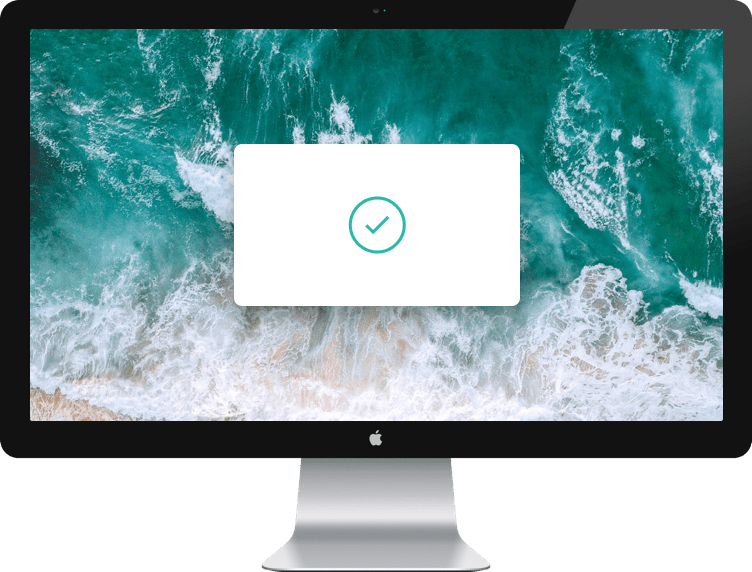
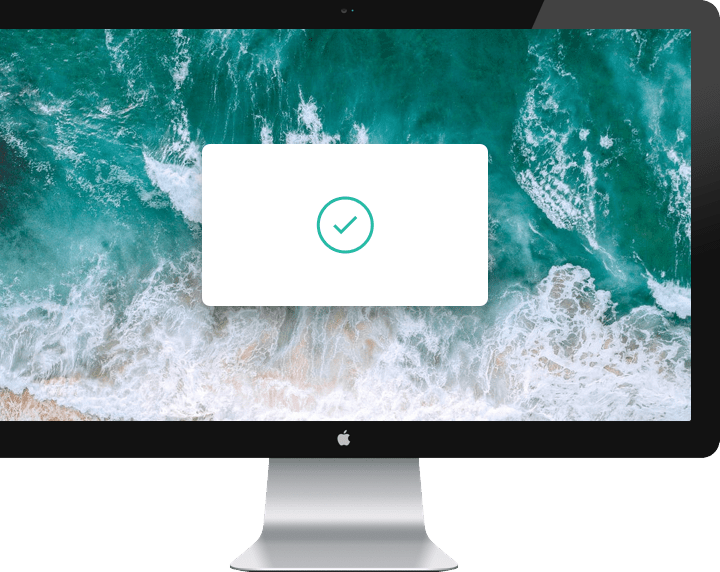
Clipboard landing

diff --git a/index.html b/index.html
@@ -1,42 +1,178 @@
 <!DOCTYPE html>
 <html lang="en">
+<head>
+    <meta charset="UTF-8">
+    <meta name="viewport" content="width=device-width, initial-scale=1.0">
+    <link rel="icon" type="image/png" sizes="32x32" href="./images/favicon-32x32.png">
+    <title>Frontend Mentor | Clipboard landing page</title>
+    <script src="https://cdn.tailwindcss.com"></script>
+    <link rel="stylesheet" href="style.css">
+</head>
+<body class="text-gray-600">
 
-    <head>
-        <meta charset="UTF-8">
-        <meta name="viewport" content="width=device-width, initial-scale=1.0">
-        <link rel="icon" type="image/png" sizes="32x32" href="./images/favicon-32x32.png">
-        <title>Frontend Mentor | Clipboard landing page</title>
-        <script src="https://cdn.tailwindcss.com"></script>
-        <link rel="stylesheet" href="style.css">
-    </head>
-    <body class="text-gray-600">
+    <div class="bg-img-desktop bg-no-repeat bg-cover ">
+        <div class="flex justify-center pt-36">
+            <svg width="125" height="125" xmlns="http://www.w3.org/2000/svg">
+                <g stroke="#26BBA4" stroke-width="10" fill="none" fill-rule="evenodd">
+                    <circle cx="62.5" cy="62.5" r="57.5" />
+                    <path d="M85.481 85.481c-12.692 12.692-33.27 12.692-45.962 0s-12.692-33.27 0-45.962 33.27-12.692 45.962 0" stroke-linecap="round" />
+                </g>
+            </svg>
+        </div>
+    </div>
 
-        <div class="bg-img-desktop bg-no-repeat bg-cover ">
-            <div class="flex justify-center pt-36">
-                <svg width="125" height="125" xmlns="http://www.w3.org/2000/svg">
-                    <g stroke="#26BBA4" stroke-width="10" fill="none" fill-rule="evenodd">
-                        <circle cx="62.5" cy="62.5" r="57.5" />
-                        <path
-                            d="M85.481 85.481c-12.692 12.692-33.27 12.692-45.962 0s-12.692-33.27 0-45.962 33.27-12.692 45.962 0"
-                            stroke-linecap="round" />
-                    </g>
-                </svg>
+    <div>
+        <div class="grid place-items-center pt-2">
+            <h1 class="text-5xl font-medium ">A history of everything you copy</h1>
+            <p class="w-2/4 text-center pt-5"> Clipboard allows you to track and organize everything you copy. Instantly access your
+                clipboard on all your devices.</p>
+        </div>
+
+        <div class=" grid place-items-center grid-cols-2 py-14">
+            <button class="place-self-end rounded-full text-white py-2 px-8 me-1.5 font-bai border-b-4 border-cyan-700" style="background-color: hsl(171, 66%, 44%);" type="button">Download for iOS</button>
+            <button class="place-self-start rounded-full text-white py-2 px-8 ms-1.5 font-bai border-b-4 border-blue-600" style="background-color: hsl(233, 100%, 69%);" type="button">Download for Mac</button>
+        </div>
+
+        <div class="grid place-items-center pt-32 mb-16">
+            <h1 class="text-5xl font-medium">Keep track of your snippets</h1>
+            <p class="w-2/4 text-center pt-5"> Clipboard instantly stores any item you copy in the cloud, meaning you can access your snippets immediately on all your devices. Our Mac and iOS apps will help you organize everything.</p>
+        </div>
+
+    </div>
+
+    <div class="grid grid-cols-2 mb-16">
+        <div>
+            <img src="images/image-computer.png" height="600" width="800"/>
+        </div>
+
+        <div class="ms-14">
+            <div class="mt-16 ms-16 pb-12 ">
+                <h1 class="text-2xl font-medium">Quick Search</h1>
+                <p class="w-3/5 font_size pt-4">Easily search your snippets by content, category, web address, application, and more.</p>
             </div>
 
-            <div class="grid place-items-center pt-16">
-                <h1 class=" text-5xl font-medium ">A history of everything you copy</h1>
-                <p class=" w-2/4 text-center pt-5"> Clipboard allows you to track and organize everything you copy. Instantly access your
-                    clipboard on all your devices.</p>
+            <div class=" ms-16 pb-12">
+                <h1 class="text-2xl font-medium">iCloud Sync</h1>
+                <p class="w-3/5 font_size pt-4">Instantly saves and syncs snippets across all your devices.</p>
             </div>
 
-            <div class="grid place-items-center grid-cols-2 py-14">
-                <button class="place-self-end rounded-full text-white py-2 px-8 me-1.5 font-bai border-b-4 border-cyan-700" style="background-color: hsl(171, 66%, 44%);" type="button">Download for iOS</button>
-                <button class="place-self-start rounded-full text-white py-2 px-8 ms-1.5 font-bai border-b-4 border-blue-600" style="background-color: hsl(233, 100%, 69%);" type="button">Download for Mac</button>
+            <div class=" ms-16 pb-12">
+                <h1 class="text-2xl font-medium">Complete History</h1>
+                <p class="w-3/5 font_size pt-4">Retrieve any snippets from the first moment you started using the app.</p>
             </div>
         </div>
 
+    </div>
+
+    <div>
+        <div class="grid place-items-center pt-32 pb-16 mb-16">
+            <h1 class="text-5xl font-medium">Access Clipboard anywhere</h1>
+            <p class="w-2/4 text-center pt-5">Whether you're on the go, or at your computer, you can access all your Clipboard snippets in a few simple clicks.</p>
+        </div>
+        <div class="grid place-items-center">
+            <img src="images/image-devices.png" height="575" width="905"/>
+        </div>
+        <div class="grid place-items-center pt-20 pb-16 mb-5">
+            <h1 class="text-5xl font-medium">Supercharge your workflow</h1>
+            <p class="w-2/4 text-center pt-5">We've got the tools to boost your productivity.</p>
+        </div>
+    </div>
+
+    <div class="grid grid-cols-3 place-items-center py-10 px-40 mb-40">
+
+        <div class="grid place-items-center ">
+            <svg width="44" height="40" xmlns="http://www.w3.org/2000/svg"><g fill="#9EABB2" fill-rule="nonzero"><path d="M11.07 0C8.353 0 6.14 2.192 6.14 4.876l-.179 25.278 2.69.02.179-25.289c0-1.21 1.005-2.196 2.24-2.196h27.027V0H11.071z"/><path d="M38.097 0a5.115 5.115 0 00-5.11 5.11v28.37c0 2.052-1.668 3.72-3.72 3.72a3.725 3.725 0 01-3.72-3.72V30.21c0-.743-.601-1.345-1.344-1.345H1.345C.602 28.864 0 29.466 0 30.21v3.272a6.417 6.417 0 006.41 6.409V37.2a3.724 3.724 0 01-3.72-3.72v-1.927h20.168v1.928a6.417 6.417 0 006.41 6.409 6.417 6.417 0 006.409-6.41V12.46h6.185c.743 0 1.345-.602 1.345-1.345V5.11A5.115 5.115 0 0038.097 0zm2.42 9.77h-4.84V5.11a2.423 2.423 0 012.42-2.42 2.423 2.423 0 012.42 2.42v4.66z"/><path d="M6.14 37.201h22.813v2.689H6.14zM19.99 7.485h-6.947a1.345 1.345 0 100 2.69h6.947a1.345 1.345 0 100-2.69zM28.057 12.863H13.043a1.345 1.345 0 100 2.69h15.014a1.345 1.345 0 100-2.69zM28.057 18.242H13.043a1.345 1.345 0 100 2.69h15.014a1.344 1.344 0 100-2.69zM28.057 23.62H13.043a1.345 1.345 0 100 2.69h15.014a1.345 1.345 0 100-2.69z"/></g></svg>
+            <div class="text-center pt-11">
+                <h1 class="text-2xl font-medium">Create blacklists</h1>
+                <p class=" font_size pt-4">Ensure sensitive information never makes its way to your clipboard by excluding certain sources.</p>
+            </div>
+        </div>
+
+        <div class="grid place-items-center ">
+            <svg width="36" height="40" xmlns="http://www.w3.org/2000/svg"><path d="M17.872 14.736a235.39 235.39 0 012.192 5.744c.746 2.027 1.536 4.24 2.368 6.64h-5.344a44.4 44.4 0 00-.784-2.368c-.288-.81-.57-1.632-.848-2.432h-8.64c-.278.8-.56 1.621-.848 2.432a44.4 44.4 0 00-.784 2.368H0a371.54 371.54 0 012.368-6.644 233.104 233.104 0 012.192-5.748 206.71 206.71 0 012.112-5.112c.693-1.61 1.413-3.136 2.16-4.736H13.6c.725 1.6 1.44 3.125 2.144 4.736.704 1.61 1.413 3.328 2.128 5.12zM7.968 18.32h6.303c-.34-.96-.671-1.878-.991-2.752a94.407 94.407 0 00-.912-2.4c-.288-.725-.539-1.365-.752-1.92-.214-.555-.384-.992-.512-1.313-.107.32-.267.758-.48 1.313a1241.872 1241.872 0 00-1.648 4.32c-.331.874-.667 1.792-1.008 2.752zM35.04 3.2h-3.2v25.6h3.2V32h-9.6v-3.2h3.2V3.2h-3.2V0h9.6v3.2z" fill="#9EABB2" fill-rule="nonzero"/></svg>
+            <div class="text-center pt-11">
+                <h1 class="text-2xl font-medium">Plain text snippets</h1>
+                <p class=" font_size pt-4">Remove unwanted formatting from copied text for a consistent look.</p>
+            </div>
+        </div>
+
+        <div class="grid place-items-center ">
+            <svg width="50" height="40" xmlns="http://www.w3.org/2000/svg"><path d="M49.059 14.072c-2.585-4.227-6.06-7.623-10.424-10.188C34.27 1.318 29.66.035 24.806.035c-4.854 0-9.464 1.283-13.829 3.849C6.612 6.449 3.137 9.845.554 14.072c-.37.646-.554 1.283-.554 1.91 0 .628.185 1.265.554 1.91 2.583 4.227 6.058 7.624 10.423 10.189 4.365 2.565 8.975 3.847 13.83 3.847 4.853 0 9.463-1.277 13.828-3.833 4.365-2.557 7.84-5.957 10.424-10.202.369-.646.553-1.283.553-1.91 0-.628-.184-1.265-.553-1.911zM18.867 6.5c1.652-1.652 3.631-2.478 5.939-2.478.369 0 .683.13.941.388.258.258.388.572.388.941 0 .37-.13.683-.387.941a1.28 1.28 0 01-.942.388c-1.587 0-2.944.563-4.07 1.689-1.126 1.126-1.688 2.482-1.688 4.07 0 .369-.13.683-.388.941a1.28 1.28 0 01-.941.388c-.37 0-.683-.13-.942-.388a1.282 1.282 0 01-.388-.942c0-2.306.827-4.286 2.478-5.938zm17.969 18.522c-3.701 2.242-7.71 3.364-12.03 3.364-4.319 0-8.329-1.121-12.03-3.364-3.7-2.243-6.777-5.256-9.232-9.04 2.805-4.356 6.321-7.614 10.548-9.773a12.099 12.099 0 00-1.689 6.23c0 3.414 1.214 6.334 3.64 8.762 2.428 2.427 5.349 3.64 8.763 3.64 3.415 0 6.335-1.213 8.762-3.64 2.428-2.427 3.641-5.348 3.641-8.763 0-2.233-.563-4.31-1.689-6.229 4.227 2.16 7.743 5.418 10.548 9.773-2.454 3.784-5.532 6.797-9.232 9.04z" fill="#9EABB2" fill-rule="nonzero"/></svg>
+            <div class="text-center pt-11">
+                <h1 class="text-2xl font-medium">Sneak preview</h1>
+                <p class=" font_size pt-4">Quick preview of all snippets on your Clipboard. for easy access.</p>
+            </div>
+        </div>
+    </div>
 
 
-    </body>
+    <div class="grid grid-cols-5 place-items-center py-10 px-32 mb-32">
+
+        <div class="grid place-items-center ">
+            <img src="images/logo-google.png" height="49" width="165"/>
+        </div>
+
+        <div class="grid place-items-center ">
+            <img src="images/logo-ibm.png" height="51" width="139"/>
+        </div>
+
+        <div class="grid place-items-center ">
+            <img src="images/logo-microsoft.png" height="35" width="161"/>
+        </div>
+
+        <div class="grid place-items-center ">
+            <img src="images/logo-hp.png" height="56" width="135"/>
+        </div>
+
+        <div class="grid place-items-center ">
+            <img src="images/logo-vector-graphics.png" height="30" width="125"/>
+        </div>
+    </div>
+
+
+    <div class="mb-32">
+        <div class="grid place-items-center pt-2">
+            <h1 class="text-4xl font-medium ">Clipboard for iOS and Mac OS</h1>
+            <p class="w-2/4 text-center pt-5">Available for free on the App Store. Download for Mac or iOS, sync with iCloud and you're ready to start adding to your clipboard.</p>
+        </div>
+
+        <div class=" grid place-items-center grid-cols-2 py-14">
+            <button class="place-self-end rounded-full text-white py-2 px-8 me-1.5 font-bai border-b-4 border-cyan-700" style="background-color: hsl(171, 66%, 44%);" type="button">Download for iOS</button>
+            <button class="place-self-start rounded-full text-white py-2 px-8 ms-1.5 font-bai border-b-4 border-blue-600" style="background-color: hsl(233, 100%, 69%);" type="button">Download for Mac</button>
+        </div>
+
+    </div>
+
+
+    <div class="bg-gray-100 grid grid-cols-4 place-items-center">
+        <div class="m-10  col-span-1">
+            <img src="images/logo.svg" style="height: 65px; width: 65px">
+        </div>
+
+        <div class="grid grid-cols-3 col-span-2 me-56">
+            <div >
+                <h1 class="me-20">FAQs<br><br>Contact Us</h1>
+            </div>
+            <div>
+                <h1 class="me-20">Privacy Policy<br><br>Press Kit</h1>
+            </div>
+            <div>
+                <h1 class="me-20">Install Guide</h1>
+
+            </div>
+
+        </div>
+
+        <div class="grid grid-cols-3 col-span-1">
+            <svg class="me-5" width="24" height="24" xmlns="http://www.w3.org/2000/svg"><path d="M22.675 0H1.325C.593 0 0 .593 0 1.325v21.351C0 23.407.593 24 1.325 24H12.82v-9.294H9.692v-3.622h3.128V8.413c0-3.1 1.893-4.788 4.659-4.788 1.325 0 2.463.099 2.795.143v3.24l-1.918.001c-1.504 0-1.795.715-1.795 1.763v2.313h3.587l-.467 3.622h-3.12V24h6.116c.73 0 1.323-.593 1.323-1.325V1.325C24 .593 23.407 0 22.675 0z" fill="#4C545C" fill-rule="nonzero"/></svg>
+
+            <svg width="24" height="20" xmlns="http://www.w3.org/2000/svg"><path d="M24 2.557a9.83 9.83 0 01-2.828.775A4.932 4.932 0 0023.337.608a9.864 9.864 0 01-3.127 1.195A4.916 4.916 0 0016.616.248c-3.179 0-5.515 2.966-4.797 6.045A13.978 13.978 0 011.671 1.149a4.93 4.93 0 001.523 6.574 4.903 4.903 0 01-2.229-.616c-.054 2.281 1.581 4.415 3.949 4.89a4.935 4.935 0 01-2.224.084 4.928 4.928 0 004.6 3.419A9.9 9.9 0 010 17.54a13.94 13.94 0 007.548 2.212c9.142 0 14.307-7.721 13.995-14.646A10.025 10.025 0 0024 2.557z" fill="#4C545C" fill-rule="nonzero"/></svg>
+
+            <svg width="24" height="24" xmlns="http://www.w3.org/2000/svg"><path d="M12 2.163c3.204 0 3.584.012 4.85.07 3.252.148 4.771 1.691 4.919 4.919.058 1.265.069 1.645.069 4.849 0 3.205-.012 3.584-.069 4.849-.149 3.225-1.664 4.771-4.919 4.919-1.266.058-1.644.07-4.85.07-3.204 0-3.584-.012-4.849-.07-3.26-.149-4.771-1.699-4.919-4.92-.058-1.265-.07-1.644-.07-4.849 0-3.204.013-3.583.07-4.849.149-3.227 1.664-4.771 4.919-4.919 1.266-.057 1.645-.069 4.849-.069zM12 0C8.741 0 8.333.014 7.053.072 2.695.272.273 2.69.073 7.052.014 8.333 0 8.741 0 12c0 3.259.014 3.668.072 4.948.2 4.358 2.618 6.78 6.98 6.98C8.333 23.986 8.741 24 12 24c3.259 0 3.668-.014 4.948-.072 4.354-.2 6.782-2.618 6.979-6.98.059-1.28.073-1.689.073-4.948 0-3.259-.014-3.667-.072-4.947-.196-4.354-2.617-6.78-6.979-6.98C15.668.014 15.259 0 12 0zm0 5.838a6.162 6.162 0 100 12.324 6.162 6.162 0 000-12.324zM12 16a4 4 0 110-8 4 4 0 010 8zm6.406-11.845a1.44 1.44 0 100 2.881 1.44 1.44 0 000-2.881z" fill="#4C545C" fill-rule="nonzero"/></svg>
+
+        </div>
+    </div>
+
+</body>
 
 </html>

diff --git a/style.css b/style.css
@@ -10,7 +10,9 @@
 
 p, .font-bai{
   font-family: Bai Jamjuree;
-  font-size: 22px;
+  font-size: 20px;
   color: hsl(201, 11%, 66%);
 }
-
+.font_size{
+  font-size: 18px;
+}
